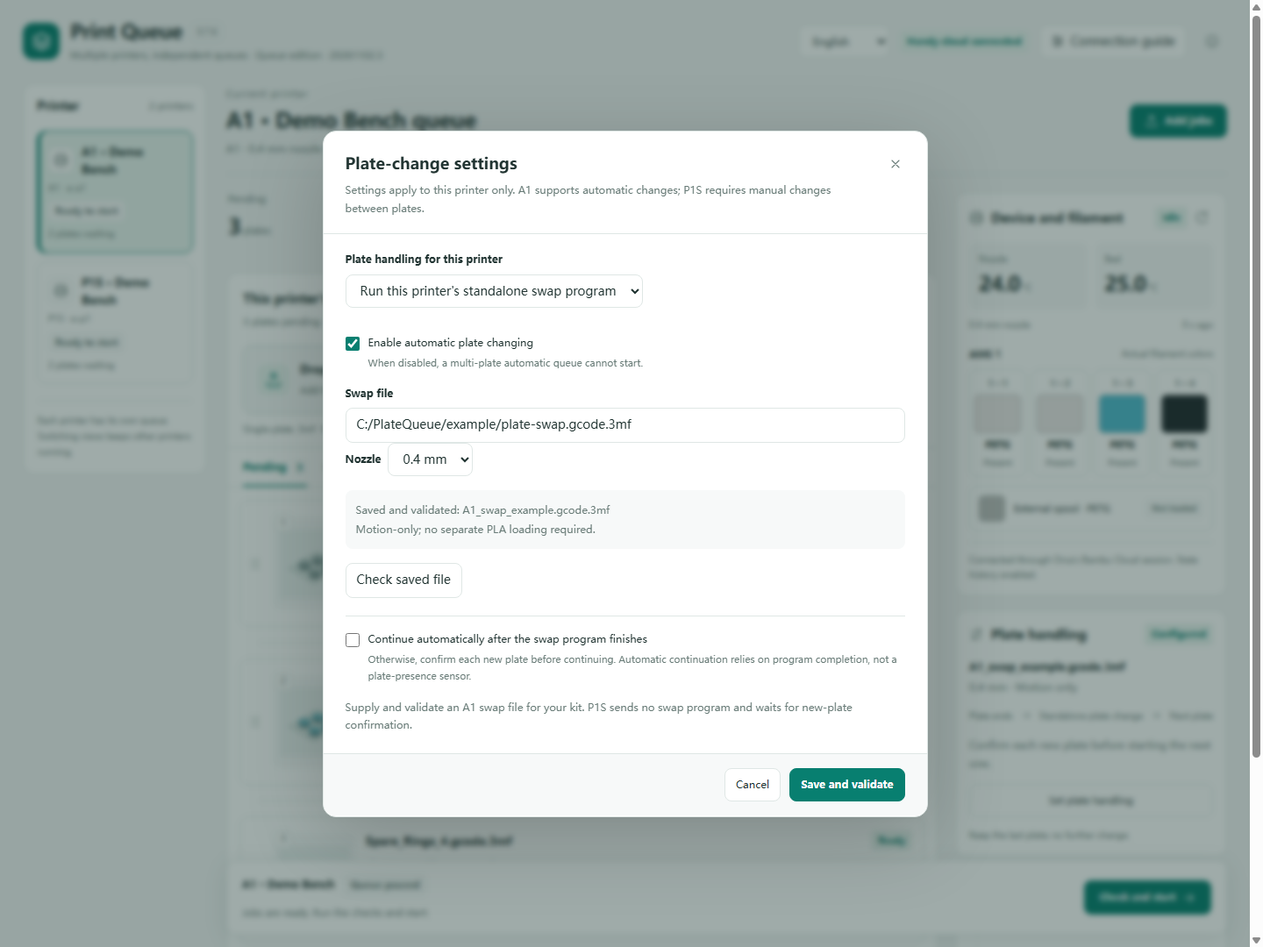
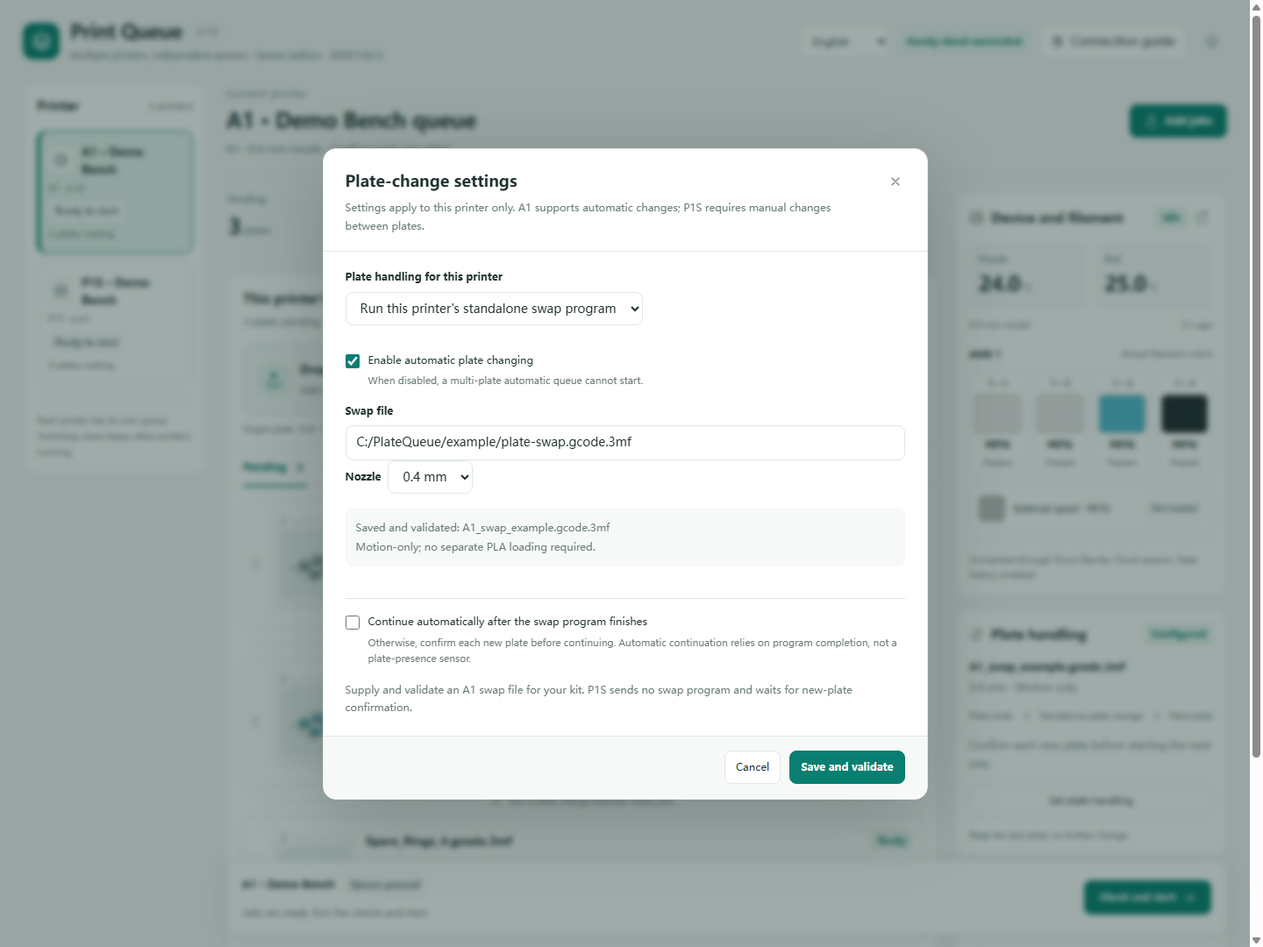
Keep feedback visible in dialogs and simplify swap validation

Changed region(s): [[0.25, 0.1222, 0.75, 0.5806], [0.2812, 0.6111, 0.7188, 0.7944], [0.25, 0.7944, 0.75, 0.8861]]

diff --git a/plugin_page.js b/plugin_page.js
@@ -1,5 +1,5 @@
 /* Local Orca page bridge. No credentials or HTTP file uploads in this page. */
-const PAGE_BUILD_ID='20261102.4';
+const PAGE_BUILD_ID='20261102.5';
 const I18n=window.QueueI18n,tr=(key,params)=>I18n.tr(key,params),message=value=>I18n.message(value);
 I18n.initialize(document);
 let latestReply=null,connection={available:false,devices:[]},setup={},swapSettings={},transitions=[];
@@ -39,7 +39,23 @@ function pendingJobs(data=latestReply?.data){return (data?.jobs||[]).filter(j=>j
 function boundDevice(data=latestReply?.data){return connection.devices.find(d=>d.id===data?.device_id&&MODEL_NAMES[d.model])}
 function deviceFaultText(d){const t=d?.telemetry||{},details=[],error=t.print_error,count=t.hms_count;if(error)details.push(tr('打印错误 ')+(Number.isInteger(error)&&error>=0?'0x'+error.toString(16).toUpperCase().padStart(8,'0'):String(error)));if(count)details.push(count+tr(' 条 HMS 设备告警'));return details.join(tr('；'))}
 function deviceReady(d){return !!d&&!!MODEL_NAMES[d.model]&&d.online&&d.cloud_connected&&d.age_ms<=15000&&d.nozzle!==null}
-function feedback(message,error=false){if(!message)return;lastFeedback={message:I18n.original(String(message)),error};clearTimeout(toastTimer);const box=$('feedback');box.replaceChildren(button('×','',()=>{box.hidden=true},tr('关闭提示')),document.createTextNode(I18n.message(message)));box.className='toast'+(error?' error':'');box.hidden=false;if(!error)toastTimer=setTimeout(()=>{box.hidden=true},6500)}
+const modalOrder=[];
+function placeFeedback(){
+  const box=$('feedback'),active=modalOrder.filter(dialog=>dialog.open).at(-1)||[...document.querySelectorAll('dialog[open]')].at(-1);
+  box.classList.toggle('dialog-feedback',!!active);
+  if(active)active.insertBefore(box,active.querySelector('.dialog-footer'));else document.body.append(box);
+  return active;
+}
+function showDialog(dialog){
+  $('feedback').hidden=true;
+  dialog.showModal();
+  const previous=modalOrder.indexOf(dialog);if(previous>=0)modalOrder.splice(previous,1);
+  modalOrder.push(dialog);placeFeedback();
+}
+for(const dialog of document.querySelectorAll('dialog'))dialog.addEventListener('close',()=>{
+  const index=modalOrder.indexOf(dialog);if(index>=0)modalOrder.splice(index,1);placeFeedback();
+});
+function feedback(message,error=false){if(!message)return;lastFeedback={message:I18n.original(String(message)),error};clearTimeout(toastTimer);const box=$('feedback');box.replaceChildren(button('×','',()=>{box.hidden=true},tr('关闭提示')),document.createTextNode(I18n.message(message)));box.className='toast'+(error?' error':'');box.hidden=false;if(placeFeedback())box.scrollIntoView({block:'nearest'});if(!error)toastTimer=setTimeout(()=>{box.hidden=true},6500)}
 function send(action,extra={}){
   if(!window.orca)return Promise.resolve({success:false,note:tr('请在 Orca 中使用此页面。')});
   const request_id=String(++requestSequence);
@@ -198,7 +214,7 @@ function renderRun(data){const a=data.active,d=boundDevice(data),t=d?.telemetry|
 function applyState(reply){if(!reply.data)return;acceptLanguage(reply);if(viewQueueId!==null&&reply.queue_id!==undefined&&reply.queue_id!==viewQueueId){for(const d of document.querySelectorAll('dialog[open]'))d.close();editing=null;selected=null;cardsKey='';draggingId=null;noticedImports.clear();startEpoch++}viewQueueId=reply.queue_id??reply.data.device_id;latestReply=reply;connection=reply.connection||{available:false,devices:[]};setup=reply.setup||{};swapSettings=reply.swap_settings||{};transitions=reply.swap_plan||[];renderConnection(reply.data);renderOverview(reply.data);renderSwap(reply.data);renderJobs(reply.data);renderRun(reply.data);renderFleet(reply);if(document.activeElement!==$('auto'))$('auto').checked=!!reply.data.auto_export;$('events').textContent=[...(reply.messages||[])].reverse().map(message).join('\n')||tr('暂无运行记录。');renderImports(reply.data);syncObjectsDialog(reply.data)}
 function renderImports(data){renderComponents(latestReply);const drafts=data.drafts||[];$('importPending').hidden=!drafts.length;$('importPendingText').textContent=drafts.length+tr(' 个文件待配置，确认后才会显示在队列。');const fresh=drafts.some(d=>!noticedImports.has(d.id));for(const d of drafts)noticedImports.add(d.id);if(fresh&&!busy&&!editing&&!document.querySelector('dialog[open]'))queueMicrotask(()=>openNextImport())}
 function openNextImport(){const draft=latestReply?.data.drafts?.[0];if(draft&&!editing)openSettings(draft.id)}
-function showPreview(src,name){$('previewTitle').textContent=name;$('previewImage').src=src;$('previewDialog').showModal()}
+function showPreview(src,name){$('previewTitle').textContent=name;$('previewImage').src=src;showDialog($('previewDialog'))}
 function refillIdentity(slot){const type=String(slot?.type||'').trim().toUpperCase(),color=String(slot?.color||'').replace(/^#/,'').toUpperCase();return type&&/^[0-9A-F]{6}([0-9A-F]{2})?$/.test(color)&&!(color.length===8&&color.endsWith('00'))?type+'|'+color+(color.length===6?'FF':''):''}
 function renderBackupChoices(f,device){const settings=editing.settings,group=settings.refill?.[f.id],primary=device?.slots.find(s=>s.id===settings.mapping[f.id]),identity=refillIdentity(group)||refillIdentity(primary),box=node('div','backup-choices');
   box.append(node('strong','',tr('跨盘续料备用槽（可选）')),node('small','',tr('主槽不可用时，按勾选顺序使用有料的同类型、同颜色槽。每盘发送前检查；不更改打印机内的自动续料设置。')));
@@ -241,15 +257,15 @@ function openSettings(id){if(busy)return;const data=latestReply?.data,device=bou
   renderSettingsHeading();
   $('materialSource').value=settings.source;$('externalReady').checked=!!settings.external_ready;$('applyMatching').checked=false;$('applyMatchingLabel').hidden=!targets.length;
   for(const [field,key] of [['bedLeveling','bed_leveling'],['flowCalibration','flow_calibration'],['timelapse','timelapse']]){const input=$(field);input.checked=!!settings.options[key];input.disabled=asset.motion_only||!device.supported_options.includes(key);if(input.disabled)input.checked=false}
-  $('settingsError').textContent='';renderMappings();$('settingsDialog').showModal();
+  $('settingsError').textContent='';renderMappings();showDialog($('settingsDialog'));
 }
 $('savePrintSettings').onclick=async()=>{if(!editing)return;const draft=editing,element=$('savePrintSettings'),copies=draft.importing?Number($('importCopies').value):null;if(draft.importing&&(!Number.isInteger(copies)||copies<1||copies>100)){$('settingsError').textContent=tr('加入份数须为 1–100 的整数。');$('importCopies').focus();return}element.disabled=true;draft.settings.external_ready=$('externalReady').checked;for(const [field,key] of [['bedLeveling','bed_leveling'],['flowCalibration','flow_calibration'],['timelapse','timelapse']])draft.settings.options[key]=$(field).checked;try{await checkedSend(draft.importing?'commit_import':'save_settings',{id:draft.id,settings:draft.settings,...(draft.importing?{copies}:{}),apply_to:$('applyMatching').checked?draft.targets:[]});if(editing===draft){$('settingsDialog').close();if(draft.importing)openNextImport()}}catch(e){$('settingsError').textContent=message(e.message)}finally{element.disabled=false}};
 $('cancelImport').onclick=async()=>{const draft=editing;if(!draft?.importing)return;const b=$('cancelImport');b.disabled=true;try{await checkedSend('discard_import',{id:draft.id});if(editing===draft){$('settingsDialog').close();openNextImport()}}catch(e){$('settingsError').textContent=message(e.message)}finally{b.disabled=false}};
 $('materialSource').onchange=()=>{if(editing){editing.settings.source=$('materialSource').value;editing.settings.mapping={};editing.settings.refill={};editing.settings.external_ready=false;$('externalReady').checked=false;renderMappings()}};
 $('settingsDialog').addEventListener('close',()=>{editing=null});
 function fillSwapDraft(){$('plateMode').value=latestReply?.data.plate_mode||'automatic';$('swapPath').value=swapSettings.source_path||swapSettings.path||'';$('swapNozzle').value=String(swapSettings.nozzle||.4);$('swapEnabled').checked=swapSettings.enabled!==false;$('swapAuto').checked=!!latestReply?.data.auto_after_swap;renderSwapDraftStatus()}
-function renderSwapDraftStatus(){const supported=SWAP_MODELS.has(boundDevice()?.model);$('plateMode').querySelector('option[value=automatic]').disabled=!supported;if(!supported)$('plateMode').value='manual';const manual=$('plateMode').value==='manual';$('swapFileFields').hidden=manual;$('swapEnabled').closest('label').hidden=manual;$('swapAuto').closest('label').hidden=manual;$('defaultSwap').disabled=boundDevice()?.model!=='N2S';$('swapStatus').textContent=swapSettings.validated?tr('已保存并校验：')+(swapSettings.name||basename(swapSettings.path))+(swapSettings.motion_only?tr('\n仅机械换盘，无需单独装 PLA。'):tr('\n换盘文件使用独立耗材设置。')):tr('请选择文件并保存校验。');$('swapPrintSettings').hidden=!!swapSettings.motion_only||!swapSettings.validated}
-function openSwap(){const data=latestReply?.data;if(data?.running||data?.active){feedback(tr('执行中不能更改换盘设置。'),true);return}swapDirty=false;fillSwapDraft();$('swapError').textContent='';$('swapDialog').showModal()}
+function renderSwapDraftStatus(){const supported=SWAP_MODELS.has(boundDevice()?.model);$('plateMode').querySelector('option[value=automatic]').disabled=!supported;if(!supported)$('plateMode').value='manual';const manual=$('plateMode').value==='manual';$('swapFileFields').hidden=manual;$('swapEnabled').closest('label').hidden=manual;$('swapAuto').closest('label').hidden=manual;$('defaultSwap').disabled=boundDevice()?.model!=='N2S';$('swapStatus').textContent=swapSettings.validated?tr('已保存并校验：')+(swapSettings.name||basename(swapSettings.path))+(swapSettings.motion_only?tr('\n仅机械换盘，无需单独装 PLA。'):tr('\n换盘文件使用独立耗材设置。')):tr('请选择文件并保存校验。');if(swapDirty)$('swapStatus').textContent=tr('当前修改尚未保存，保存时将重新校验。')+'\n'+$('swapStatus').textContent;$('swapPrintSettings').hidden=!!swapSettings.motion_only||!swapSettings.validated}
+function openSwap(){const data=latestReply?.data;if(data?.running||data?.active){feedback(tr('执行中不能更改换盘设置。'),true);return}swapDirty=false;fillSwapDraft();$('swapError').textContent='';showDialog($('swapDialog'))}
 async function saveSwap(useDefault=false){const b=useDefault?$('defaultSwap'):$('saveSwap');b.disabled=true;$('swapError').textContent='';try{await checkedSend(useDefault?'default_swap':'save_swap',{plate_mode:useDefault?'automatic':$('plateMode').value,path:$('swapPath').value,nozzle:Number($('swapNozzle').value),enabled:$('swapEnabled').checked,automatic:$('swapAuto').checked});swapDirty=false;fillSwapDraft();if(!useDefault)$('swapDialog').close()}catch(e){$('swapError').textContent=message(e.message)}finally{b.disabled=false}}
 function startChecks(data){
   const r=readiness(data,startOperation==='swap_first'),d=boundDevice(data),fresh=deviceReady(d),state=d?.telemetry?.gcode_state,stateFresh=(d?.state_age_ms??d?.age_ms??Infinity)<=15000,idle=fresh&&stateFresh&&READY_STATES.has(state),fault=deviceFaultText(d);
@@ -262,11 +278,11 @@ function renderStartChecklist(extra=''){const body=$('startChecklist');body.repl
 function updateStartButton(){const ack=startOperation==='reconcile'?$('checkedPending').checked:startOperation==='swap_first'?$('swapReady').checked:$('bedClear').checked;$('confirmStart').disabled=startChecking||!ack||(startOperation!=='reconcile'&&!startPassed)}
 async function checkStart(){if(startOperation==='reconcile'){startPassed=true;renderStartChecklist();updateStartButton();return}const epoch=++startEpoch;startChecking=true;startPassed=false;updateStartButton();$('startError').textContent='';renderStartChecklist(tr('正在核对文件、设备和耗材…'));try{await checkedSend('preflight',{for_start:true,swap_first:startOperation==='swap_first'});if(epoch!==startEpoch||!$('startDialog').open)return;startPassed=true;renderStartChecklist(tr('文件、设备与逐盘设置检查通过。'))}catch(e){if(epoch!==startEpoch||!$('startDialog').open)return;$('startError').textContent=message(e.message);renderStartChecklist()}finally{if(epoch===startEpoch){startChecking=false;updateStartButton()}}}
 function renderStartPresentation(){const reconcile=startOperation==='reconcile',swapFirst=startOperation==='swap_first',jobs=pendingJobs();$('startDescription').dataset.deviceId=latestReply?.data.device_id||'';$('startTitle').textContent=reconcile?tr('确认当前任务已结束'):swapFirst?tr('换盘后继续队列'):tr('开始前检查');$('startDescription').textContent=(boundDevice()?.name||tr('当前机器'))+' · '+(reconcile?tr('请先核对打印机和 Handy，防止已有任务稍后启动。'):swapFirst?tr('先运行独立换盘文件，再开始下一盘。'):tr('检查通过并确认打印板就绪后，才会发送打印。'));$('bedClearGroup').hidden=swapFirst;$('bedClearGroup').querySelector('span').textContent=reconcile?tr('当前已装好空白打印板（未勾选则保留待换盘状态）'):latestReply?.data.plate_mode==='manual'?tr('已安装空白打印板，打印区域已清空'):tr('已安装空白打印板，换盘机构及备板已就绪');$('swapReadyGroup').hidden=!swapFirst;$('checkedPendingGroup').hidden=!reconcile;$('recheckStart').hidden=reconcile;$('confirmStart').textContent=reconcile?tr('记录已结束'):swapFirst?tr('确认换盘并继续'):tr('确认并开始');const summary=$('startSummary');summary.replaceChildren();if(!reconcile){const a=node('div'),b=node('div');a.append(node('strong','',jobs.length+tr(' 盘任务')),node('small','',boundDevice()?.name||tr('打印机未绑定')));b.append(node('strong','',duration(jobs.reduce((s,j)=>s+(j.duration_s||0),0))),node('small','',tr('切片预计用时，不含调平与换盘')));summary.append(a,b)}summary.hidden=reconcile;}
-function openStart(operation){if(busy)return;startOperation=operation;startPassed=false;startChecking=false;$('bedClear').checked=false;$('swapReady').checked=false;$('checkedPending').checked=false;$('startError').textContent='';const reconcile=operation==='reconcile',swapFirst=operation==='swap_first',jobs=pendingJobs();renderStartPresentation();$('startDialog').showModal();checkStart()}
+function openStart(operation){if(busy)return;startOperation=operation;startPassed=false;startChecking=false;$('bedClear').checked=false;$('swapReady').checked=false;$('checkedPending').checked=false;$('startError').textContent='';const reconcile=operation==='reconcile',swapFirst=operation==='swap_first',jobs=pendingJobs();renderStartPresentation();showDialog($('startDialog'));checkStart()}
 $('startDialog').addEventListener('close',()=>{startEpoch++;startChecking=false});
 $('confirmStart').onclick=async()=>{const b=$('confirmStart');if(b.disabled)return;b.disabled=true;const epoch=++startEpoch;try{await checkedSend(startOperation==='reconcile'?'reconcile':'start',{bed_clear:$('bedClear').checked,swap_first:startOperation==='swap_first',checked_pending:$('checkedPending').checked});if(epoch===startEpoch)$('startDialog').close()}catch(e){$('startError').textContent=message(e.message);startPassed=false}finally{updateStartButton()}};
 function renderControlPresentation(){const action=actionIntent;const continuing=action==='end_current',name=boundDevice()?.name||tr('当前机器'),manual=latestReply?.data.plate_mode==='manual';$('actionTitle').textContent=name+' · '+(continuing?tr('结束本盘，继续队列'):tr('停止本机打印并暂停队列'));$('actionDescription').textContent=continuing?tr('将结束 ')+name+tr(' 的当前盘。')+(pendingJobs().length?(manual?tr('随后等待手动换板，确认后继续下一盘。'):tr('随后按本机换盘设置继续下一盘。')):tr('没有后续任务，保留最后一盘。'))+tr('其他打印机继续各自运行。'):tr('将停止 ')+name+tr(' 的当前打印，并暂停本机后续队列。其他打印机继续各自运行。');$('confirmAction').textContent=continuing?tr('结束本盘并继续'):tr('停止并暂停队列');}
-function confirmControl(action){actionIntent=action;$('actionError').textContent='';renderControlPresentation();$('actionDialog').showModal()}
+function confirmControl(action){actionIntent=action;$('actionError').textContent='';renderControlPresentation();showDialog($('actionDialog'))}
 function syncCompletedReview(){
   const ctx=completionAttempt;if(!ctx)return;const a=latestReply?.data.active,d=boundDevice(),t=d?.telemetry||{};
   const current=a?.request_id===ctx.request_id&&viewQueueId===ctx.queue_id;
@@ -291,7 +307,7 @@ function openCompletedReview(){
   const data=latestReply?.data,a=data?.active;if(!a||busy)return;
   completionAttempt={request_id:a.request_id,queue_id:viewQueueId,tag:a.tag,passed:false,checking:false,working:false};
   renderCompletedPresentation();
-  $('completeConfirmed').checked=false;$('completeError').textContent='';$('completeDialog').showModal();checkCompletedReview();
+  $('completeConfirmed').checked=false;$('completeError').textContent='';showDialog($('completeDialog'));checkCompletedReview();
 }
 $('completeDialog').addEventListener('close',()=>{completionAttempt=null});
 $('closeComplete').onclick=()=>$('completeDialog').close();$('recheckComplete').onclick=checkCompletedReview;$('completeConfirmed').onchange=syncCompletedReview;
@@ -342,7 +358,7 @@ function syncObjectsDialog(data){
 async function openObjects(jobId=null,readOnly=false){
   const data=latestReply?.data,job=data?.jobs.find(j=>j.id===(jobId||data.active?.job_id));if(!job)return;if(!readOnly&&job.object_count===1)return confirmControl('end_current');
   const ctx={serial:++objectsSerial,queueId:viewQueueId,attempt:objectAttempt(data),job,ids:new Set(job.objects.map(o=>String(o.id))),done:new Set(),pending:new Set(),selected:new Set(),readOnly,submitting:false,hover:null};objectsState=ctx;
-  $('objectsTitle').textContent=readOnly?tr('本盘零件预览'):tr('跳过本盘零件');$('objectsDescription').textContent=(boundDevice()?.name||tr('当前机器'))+' · '+job.name;$('objectsError').textContent='';$('objectsPreviewNote').textContent=tr('正在读取本盘俯视图与零件位置…');$('objectsPreview').replaceChildren(node('div','object-preview-empty',tr('正在读取零件预览…')));$('objectsFit').disabled=true;renderObjectRows();$('objectsDialog').showModal();syncObjectsDialog(data);
+  $('objectsTitle').textContent=readOnly?tr('本盘零件预览'):tr('跳过本盘零件');$('objectsDescription').textContent=(boundDevice()?.name||tr('当前机器'))+' · '+job.name;$('objectsError').textContent='';$('objectsPreviewNote').textContent=tr('正在读取本盘俯视图与零件位置…');$('objectsPreview').replaceChildren(node('div','object-preview-empty',tr('正在读取零件预览…')));$('objectsFit').disabled=true;renderObjectRows();showDialog($('objectsDialog'));syncObjectsDialog(data);
   try{const reply=await checkedSend('object_preview',{id:job.id});if(objectsState!==ctx||!$('objectsDialog').open)return;if(reply.job_id!==job.id||reply.queue_id!==ctx.queueId)throw Error(tr('零件预览归属不匹配。'));renderObjectPreview(reply.preview||{})}catch(e){if(objectsState!==ctx)return;$('objectsPreview').replaceChildren(node('div','object-preview-empty',tr('预览暂不可用，可使用下方列表。')));$('objectsPreviewNote').textContent=message(e.message)}
 }
 $('objectsSelectAll').onchange=()=>{const ctx=objectsState;if(!ctx)return;for(const o of ctx.job.objects){const id=String(o.id);if(!ctx.done.has(id)&&!ctx.pending.has(id)){if($('objectsSelectAll').checked)ctx.selected.add(id);else ctx.selected.delete(id)}}syncObjectUI()};
@@ -396,14 +412,13 @@ document.addEventListener('drop',e=>{if(!isFileDrag(e))return;e.preventDefault()
 document.addEventListener('dragend',()=>{zone.classList.remove('drag-over');pointerDragging=false});
 document.addEventListener('click',e=>{if(!e.target.closest('#importOptions'))$('importOptions').open=false});
 $('quickAdd').onclick=()=>guide('jobs');
-$('openConnection').onclick=()=>{renderComponents(latestReply);$('connectionDialog').showModal()};
+$('openConnection').onclick=()=>{renderComponents(latestReply);showDialog($('connectionDialog'))};
 $('closeConnection').onclick=()=>$('connectionDialog').close();
 $('connectionDownloadUrl').onclick=()=>$('connectionDownloadUrl').select();
 for(const [id,dialog] of [['closeSettings','settingsDialog'],['closeSwap','swapDialog'],['cancelSwap','swapDialog'],['closeStart','startDialog'],['closeObjects','objectsDialog'],['closeAction','actionDialog'],['cancelAction','actionDialog'],['closePreview','previewDialog'],['closeHelp','helpDialog']])$(id).onclick=()=>$(dialog).close();
 $('pendingTab').onclick=()=>{queueFilter='pending';renderJobs(latestReply?.data||{jobs:[]})};$('historyTab').onclick=()=>{queueFilter='history';renderJobs(latestReply?.data||{jobs:[]})};
 $('configureImports').onclick=openNextImport;
-$('openHelp').onclick=()=>$('helpDialog').showModal();$('openSwap').onclick=openSwap;$('saveSwap').onclick=()=>saveSwap();$('defaultSwap').onclick=()=>saveSwap(true);
-$('checkSwap').onclick=async()=>{try{await checkedSend('check_swap');$('swapStatus').textContent=tr('已保存的换盘文件校验通过。')+(swapDirty?tr(' 当前修改尚未保存。'):'')}catch(e){$('swapError').textContent=message(e.message)}};
+$('openHelp').onclick=()=>showDialog($('helpDialog'));$('openSwap').onclick=openSwap;$('saveSwap').onclick=()=>saveSwap();$('defaultSwap').onclick=()=>saveSwap(true);
 $('swapPrintSettings').onclick=()=>openSettings('__swap__');for(const id of ['swapPath','swapNozzle','swapEnabled','swapAuto','plateMode'])$(id).oninput=()=>{swapDirty=true;renderSwapDraftStatus()};
 $('add').onclick=async()=>{if(!boundDevice())return focusDevice();if(!busy)await perform('add',{path:$('path').value,copies:1},$('add'))};
 $('retryInitialize').onclick=()=>perform('retry_initialize',{},$('retryInitialize'));

diff --git a/plugin_page.html b/plugin_page.html
@@ -19,7 +19,7 @@
 </defs></svg>
 <main class="workspace">
 <header class="page-header">
-  <div class="brand"><span class="brand-mark"><svg class="icon"><use href="#i-stack"/></svg></span><div><h1>打印队列 <span class="version">0.7.7</span></h1><p>多台设备，各自按序打印 · <span id="buildLabel">精简队列版 · 20261102.4</span></p></div></div>
+  <div class="brand"><span class="brand-mark"><svg class="icon"><use href="#i-stack"/></svg></span><div><h1>打印队列 <span class="version">0.7.8</span></h1><p>多台设备，各自按序打印 · <span id="buildLabel">精简队列版 · 20261102.5</span></p></div></div>
   <div class="header-actions"><select id="languageSelect" class="language-select" aria-label="界面语言" title="界面语言"><option value="zh-CN" data-i18n-ignore>简体中文</option><option value="en" data-i18n-ignore>English</option></select><span id="cloudBadge" class="status-pill muted">等待连接</span><button id="openConnection"><svg class="icon"><use href="#i-settings"/></svg>连接说明</button><button id="openHelp" class="icon-button" title="帮助与运行记录" aria-label="帮助与运行记录"><svg class="icon"><use href="#i-info"/></svg></button></div>
 </header>
 <section id="initializationNotice" class="notice" role="alert" hidden><p>队列尚未初始化。如果刚允许了 Orca 的文件权限，请点击重新初始化。</p><button id="retryInitialize">重新初始化</button></section>
@@ -66,7 +66,7 @@
 <dialog id="connectionDialog" class="settings-dialog" aria-labelledby="connectionTitle">
 <header class="dialog-header"><div><h2 id="connectionTitle">连接说明</h2><p>独立安装连接组件 · 保留 Bambu Handy</p></div><button id="closeConnection" class="icon-button" aria-label="关闭连接说明"><svg class="icon"><use href="#i-close"/></svg></button></header>
 <div class="dialog-body"><p id="componentSummary" class="inline-note" role="status"></p><div id="componentSeries" class="component-series"></div><ol class="connection-steps"><li>在 Orca 中启用打印机联网功能。</li><li>首次使用时，保存工程并退出 Orca，解压独立连接组件包，打开独立安装器并点“安装 / 更新”。</li><li>重新打开 Orca，在首页登录 Bambu Cloud，再选择打印机并核对 AMS。</li></ol><p class="quiet-note">已有 Open Bamboo 可以保留。普通 Open Bamboo 尚不包含队列桥接，首次仍需独立安装器；已安装匹配桥接的用户无需重复安装。安装器支持备份和恢复，不修改队列或账号。</p><p id="componentNote" class="small"></p><div class="connection-downloads"><a id="downloadConnection" class="download-link primary" href="https://github.com/ChenLei0504/orca-plate-queue/releases/download/v0.7.3/Orca-Queue-Connection-0.7.3-Windows-x64.zip" target="_blank" rel="noopener noreferrer">下载 Windows 连接组件 · 0.7.3</a><a id="connectionRelease" class="download-link" href="https://github.com/ChenLei0504/orca-plate-queue/releases/tag/v0.7.3" target="_blank" rel="noopener noreferrer">查看发布页与源码</a></div><label class="small" for="connectionDownloadUrl">如果无法打开，复制链接到浏览器：</label><input id="connectionDownloadUrl" class="download-url" type="text" readonly value="https://github.com/ChenLei0504/orca-plate-queue/releases/download/v0.7.3/Orca-Queue-Connection-0.7.3-Windows-x64.zip" aria-label="连接组件公开下载链接"><details class="connection-checksum"><summary>查看 SHA256 校验值</summary><code>2ada419c29fff877ea86c78cb2e59597e5fc429742d30b9e52770ca467522200</code></details><p class="small">仅打开公开下载链接，不会自动安装。保存工程并退出 Orca 后，再手动运行独立安装器。</p></div></dialog>
-<dialog id="swapDialog" class="settings-dialog" aria-labelledby="swapTitle"><header class="dialog-header"><div><h2 id="swapTitle">换盘设置</h2><p>当前打印机单独设置。A1 可自动换盘，P1S 每盘结束后手动换板。</p></div><button id="closeSwap" class="icon-button" aria-label="关闭换盘设置"><svg class="icon"><use href="#i-close"/></svg></button></header><div class="dialog-body"><label class="field-label" for="plateMode">本机打印板处理方式</label><select id="plateMode"><option value="manual">手动换板，每盘结束后确认</option><option value="automatic">自动运行本机独立换盘程序</option></select><label class="check-line"><input id="swapEnabled" type="checkbox" checked><span>启用自动换盘<small>关闭后，连续多盘队列不能开始。</small></span></label><div id="swapFileFields"><label class="field-label" for="swapPath">换盘文件</label><input id="swapPath" type="text" class="full-width" placeholder="套件独立换盘 .3mf 的完整路径" aria-label="本机换盘文件路径"><div class="row"><label class="field-label" for="swapNozzle">喷嘴</label><select id="swapNozzle"><option value="0.2">0.2 mm</option><option value="0.4">0.4 mm</option><option value="0.6">0.6 mm</option><option value="0.8">0.8 mm</option></select><button id="defaultSwap" class="text-button">使用套件默认文件</button></div><div id="swapStatus" class="inline-note" role="status"></div><div class="row"><button id="checkSwap">检查已保存的文件</button><button id="swapPrintSettings">换盘耗材设置</button></div></div><div class="option-divider"></div><label class="check-line"><input id="swapAuto" type="checkbox"><span>换盘程序完成后自动继续<small>关闭时，每次确认新板就位后再开始下一盘。自动继续依据程序完成回报，没有到位传感器保证。</small></span></label><p class="quiet-note">A1 的独立换盘文件由你按实际套件提供并校验；P1S 不发送换盘程序，确认新板就位后继续本机队列。</p><div id="swapError" class="field-error" role="status"></div></div><footer class="dialog-footer"><button id="cancelSwap">取消</button><button id="saveSwap" class="primary">保存并校验</button></footer></dialog>
+<dialog id="swapDialog" class="settings-dialog" aria-labelledby="swapTitle"><header class="dialog-header"><div><h2 id="swapTitle">换盘设置</h2><p>当前打印机单独设置。A1 可自动换盘，P1S 每盘结束后手动换板。</p></div><button id="closeSwap" class="icon-button" aria-label="关闭换盘设置"><svg class="icon"><use href="#i-close"/></svg></button></header><div class="dialog-body"><label class="field-label" for="plateMode">本机打印板处理方式</label><select id="plateMode"><option value="manual">手动换板，每盘结束后确认</option><option value="automatic">自动运行本机独立换盘程序</option></select><label class="check-line"><input id="swapEnabled" type="checkbox" checked><span>启用自动换盘<small>关闭后，连续多盘队列不能开始。</small></span></label><div id="swapFileFields"><label class="field-label" for="swapPath">换盘文件</label><input id="swapPath" type="text" class="full-width" placeholder="套件独立换盘 .3mf 的完整路径" aria-label="本机换盘文件路径"><div class="row"><label class="field-label" for="swapNozzle">喷嘴</label><select id="swapNozzle"><option value="0.2">0.2 mm</option><option value="0.4">0.4 mm</option><option value="0.6">0.6 mm</option><option value="0.8">0.8 mm</option></select><button id="defaultSwap" class="text-button">使用套件默认文件</button></div><div id="swapStatus" class="inline-note" role="status"></div><div class="row"><button id="swapPrintSettings">换盘耗材设置</button></div></div><div class="option-divider"></div><label class="check-line"><input id="swapAuto" type="checkbox"><span>换盘程序完成后自动继续<small>关闭时，每次确认新板就位后再开始下一盘。自动继续依据程序完成回报，没有到位传感器保证。</small></span></label><p class="quiet-note">A1 的独立换盘文件由你按实际套件提供并校验；P1S 不发送换盘程序，确认新板就位后继续本机队列。</p><div id="swapError" class="field-error" role="status"></div></div><footer class="dialog-footer"><button id="cancelSwap">取消</button><button id="saveSwap" class="primary">保存并校验</button></footer></dialog>
 <dialog id="settingsDialog" class="settings-dialog" aria-labelledby="settingsTitle"><header class="dialog-header"><div><h2 id="settingsTitle">打印设置</h2><p id="settingsDevice"></p></div><button id="closeSettings" class="icon-button" aria-label="关闭打印设置"><svg class="icon"><use href="#i-close"/></svg></button></header><div class="dialog-body"><div id="settingsAsset" class="asset-heading"></div><div id="materialSourceGroup"><label class="field-label" for="materialSource">供料方式</label><select id="materialSource"><option value="ams">AMS / AMS Lite</option><option value="external">外挂耗材</option></select></div><p id="materialHint" class="small"></p><div id="materialMappings" class="material-mappings"></div><label id="externalReadyLabel" class="check-line" hidden><input id="externalReady" type="checkbox"><span>已人工确认外挂耗材装好并送入喷头<small>仅用于设备未回报在位状态的情况，不能覆盖明确的无料回报。</small></span></label><div class="option-divider"></div><div id="printOptions"><h3>本盘打印选项</h3><div class="options"><label><input id="bedLeveling" type="checkbox">热床调平</label><label><input id="flowCalibration" type="checkbox">流量校准</label><label><input id="timelapse" type="checkbox">延时摄影</label></div></div><label id="applyMatchingLabel" class="check-line apply-matching" hidden><input id="applyMatching" type="checkbox"><span id="applyMatchingText">同时应用到相同耗材的等待任务</span></label><div id="settingsError" class="field-error" role="status"></div></div><footer class="dialog-footer"><span class="small">先保存配置，开始前再检查装料。</span><button id="cancelImport" hidden>取消导入</button><button id="savePrintSettings" class="primary">保存设置</button></footer></dialog>
 <dialog id="startDialog" class="settings-dialog" aria-labelledby="startTitle"><header class="dialog-header"><div><h2 id="startTitle">开始队列</h2><p id="startDescription"></p></div><button id="closeStart" class="icon-button" aria-label="关闭开始检查"><svg class="icon"><use href="#i-close"/></svg></button></header><div class="dialog-body"><div id="startSummary" class="start-summary"></div><div id="startChecklist" class="start-checklist"></div><div id="bedClearGroup"><label class="check-line"><input id="bedClear" type="checkbox"><span>已安装空白打印板，换盘机构及备板已就绪</span></label></div><div id="swapReadyGroup" hidden><label class="check-line"><input id="swapReady" type="checkbox"><span>已确认换盘机构及备板就绪</span></label></div><div id="checkedPendingGroup" hidden><label class="check-line"><input id="checkedPending" type="checkbox"><span>已确认打印机和 Handy 均无运行中或待启动任务</span></label></div><div id="startError" class="field-error" role="status"></div></div><footer class="dialog-footer"><button id="recheckStart">重新检查</button><button id="confirmStart" class="primary" disabled>确认并开始</button></footer></dialog>
 <dialog id="objectsDialog" class="settings-dialog objects-dialog" aria-labelledby="objectsTitle">
@@ -81,5 +81,5 @@
 </dialog>
 <dialog id="actionDialog" class="settings-dialog compact-dialog" aria-labelledby="actionTitle"><header class="dialog-header"><h2 id="actionTitle">结束当前盘</h2><button id="closeAction" class="icon-button" aria-label="关闭操作确认"><svg class="icon"><use href="#i-close"/></svg></button></header><div class="dialog-body"><p id="actionDescription"></p><div id="actionError" class="field-error" role="status"></div></div><footer class="dialog-footer"><button id="cancelAction">取消</button><button id="confirmAction" class="danger-solid">确认操作</button></footer></dialog>
 <dialog id="previewDialog" class="preview-dialog" aria-labelledby="previewTitle"><header class="dialog-header"><h2 id="previewTitle">模型预览</h2><button id="closePreview" class="icon-button" aria-label="关闭模型预览"><svg class="icon"><use href="#i-close"/></svg></button></header><img id="previewImage" alt="本盘模型放大预览"><p class="quiet-note">预览来自该盘切片文件，清晰度取决于原图。</p></dialog>
-<dialog id="helpDialog" class="settings-dialog" aria-labelledby="helpTitle"><header class="dialog-header"><div><h2 id="helpTitle">帮助与运行记录</h2><p>Orca Plate Queue · 0.7.7</p></div><button id="closeHelp" class="icon-button" aria-label="关闭帮助"><svg class="icon"><use href="#i-close"/></svg></button></header><div class="dialog-body"><h3>更新状态</h3><div class="inline-note"><p>页面构建：精简队列版 · 20261102.4</p><p id="buildService" role="status">队列服务：等待检测</p><p id="buildHistory" role="status">连接组件：等待打印机状态</p><p id="buildMaterials" role="status">耗材映射：等待连接检测</p></div><h3>队列怎样继续</h3><p>每个任务独立发送原始单盘 3MF。A1 按本机设置运行换盘文件或等待手动换板；P1S 每盘结束后等待手动换板确认。最后一盘保留。Handy 或屏幕主动停止会暂停对应机器的队列，其他机器继续运行。</p><h3>中断后怎么办</h3><p>断线、报错或任务身份不符时暂停后续调度。请先核对 Handy，再恢复监控；不自动重发结果不明的任务。关闭此页仍会运行队列，需保持 Orca 程序打开。</p><h3>文件与零件跳过</h3><p>多零件需要切片时生成原生对象标签。只有一个零件时，用“结束本盘”。原生打印下拉菜单尚未扩展，请在本页加入导出的单盘文件。</p><h3>实机验证</h3><p>首次连续打印请看守验证。换盘程序成功不代表新板必然就位，默认需要逐次确认。</p><div class="option-divider"></div><h3>最近记录</h3><div id="events" class="event-list">暂无记录。</div></div><footer class="dialog-footer"><button id="exportReport">保存运行记录</button></footer></dialog>
+<dialog id="helpDialog" class="settings-dialog" aria-labelledby="helpTitle"><header class="dialog-header"><div><h2 id="helpTitle">帮助与运行记录</h2><p>Orca Plate Queue · 0.7.8</p></div><button id="closeHelp" class="icon-button" aria-label="关闭帮助"><svg class="icon"><use href="#i-close"/></svg></button></header><div class="dialog-body"><h3>更新状态</h3><div class="inline-note"><p>页面构建：精简队列版 · 20261102.5</p><p id="buildService" role="status">队列服务：等待检测</p><p id="buildHistory" role="status">连接组件：等待打印机状态</p><p id="buildMaterials" role="status">耗材映射：等待连接检测</p></div><h3>队列怎样继续</h3><p>每个任务独立发送原始单盘 3MF。A1 按本机设置运行换盘文件或等待手动换板；P1S 每盘结束后等待手动换板确认。最后一盘保留。Handy 或屏幕主动停止会暂停对应机器的队列，其他机器继续运行。</p><h3>中断后怎么办</h3><p>断线、报错或任务身份不符时暂停后续调度。请先核对 Handy，再恢复监控；不自动重发结果不明的任务。关闭此页仍会运行队列，需保持 Orca 程序打开。</p><h3>文件与零件跳过</h3><p>多零件需要切片时生成原生对象标签。只有一个零件时，用“结束本盘”。原生打印下拉菜单尚未扩展，请在本页加入导出的单盘文件。</p><h3>实机验证</h3><p>首次连续打印请看守验证。换盘程序成功不代表新板必然就位，默认需要逐次确认。</p><div class="option-divider"></div><h3>最近记录</h3><div id="events" class="event-list">暂无记录。</div></div><footer class="dialog-footer"><button id="exportReport">保存运行记录</button></footer></dialog>
 <script src="page_messages.js"></script><script src="page_i18n.js"></script><script src="plugin_page.js"></script></body></html>

diff --git a/page_messages.js b/page_messages.js
@@ -1,6 +1,7 @@
 /* Application-authored messages only; user file and device names are never translated. */
 window.QueueMessages=Object.freeze({
   "en": {
+    "当前修改尚未保存，保存时将重新校验。": "Changes are not saved yet. Saving will validate the updated settings.",
     "重新初始化": "Retry initialization",
     "队列尚未初始化。如果刚允许了 Orca 的文件权限，请点击重新初始化。": "The queue has not initialized. If you just allowed file access in Orca, click Retry initialization.",
     "已复用 Orca 当前连接组件与 Bambu Cloud 登录会话。": "Reusing Orca's loaded connection component and Bambu Cloud session.",

diff --git a/plugin_page.css b/plugin_page.css
@@ -37,3 +37,5 @@ body button:hover:not(:disabled){background:var(--pq-soft);border-color:var(--pq
 .language-select{max-width:130px;min-width:104px;font-size:12px;flex-shrink:0}html[lang="en"] .header-actions{flex-wrap:wrap}html[lang="en"] .queue-context{gap:12px}html[lang="en"] .row{flex-wrap:wrap}@media(max-width:700px){.page-header{flex-wrap:wrap}.header-actions{margin-left:auto;gap:6px}.language-select{min-width:98px}html[lang="en"] .queue-context{flex-wrap:wrap}}
 
 html[lang="en"] .stats strong small{margin-left:.25em}
+
+.toast.dialog-feedback{position:static;max-width:none;margin:0 25px 16px;box-shadow:none;overflow-wrap:anywhere}

diff --git a/release_info.py b/release_info.py
@@ -1,5 +1,5 @@
-QUEUE_VERSION = '0.7.7'
-QUEUE_BUILD_ID = '20261102.4'
+QUEUE_VERSION = '0.7.8'
+QUEUE_BUILD_ID = '20261102.5'
 CONNECTION_VERSION = '0.7.3'
 CONNECTION_DOWNLOAD_URL = 'https://github.com/ChenLei0504/orca-plate-queue/releases/download/v0.7.3/Orca-Queue-Connection-0.7.3-Windows-x64.zip'
[1 lines of base64/hex data omitted]

diff --git a/README.md b/README.md
@@ -14,7 +14,7 @@ An OrcaSlicer plugin for A1 / P1S queues, per-plate filament mapping, object ski
 
 | Component / 组件 | Current source version / 当前源码版本 |
 | --- | --- |
-| Queue plugin / 队列插件 | **0.7.7** · build **20261102.4** |
+| Queue plugin / 队列插件 | **0.7.8** · build **20261102.5** |
 | Connection component / 独立连接组件 | **0.7.3** |
 | Platform / 平台 | Windows x64 · OrcaSlicer **2.5.0 beta** |
 
@@ -169,7 +169,7 @@ flowchart LR
 
 ### 更新与常见问题
 
-更新到 0.7.7 后，应看到版本 **0.7.7**、构建 **20261102.4**。ⓘ → 更新状态中可查看页面、队列服务、状态历史和 AMS 映射状态。更新插件后完整退出并重新打开 Orca，避免旧代码仍驻留内存。
+更新到 0.7.8 后，应看到版本 **0.7.8**、构建 **20261102.5**。ⓘ → 更新状态中可查看页面、队列服务、状态历史和 AMS 映射状态。更新插件后完整退出并重新打开 Orca，避免旧代码仍驻留内存。
 
 | 现象 | 检查方式 |
 | --- | --- |
@@ -179,8 +179,8 @@ flowchart LR
 | 选择 AMS 却提示手动进料 | 核对本盘供料方式、实际槽位和“完整 AMS 映射已启用”状态；出现异常先暂停检查，不把提示视为正常。 |
 | 文件准备好了但不能开始 | 打开开始前检查，查看设备状态、HMS / 打印错误、喷嘴、耗材映射与换板配置。 |
 | 打印完成却等待核对 | 核对 Handy / 屏幕中的实际任务和状态，再按恢复区域提示处理；不要重复发送原任务。 |
-| 允许文件权限后仍提示队列初始化失败 | 更新到 0.7.7。若仍出现权限提示，允许后点击页面“重新初始化”；无需删除队列数据。 |
-| 添加换盘文件时 `.part` 报 Errno 2，存储路径很长 | 更新到 0.7.7 / 20261102.4。此构建修复未启用长路径感知的宿主中的缓存创建、校验和数据库访问。 |
+| 允许文件权限后仍提示队列初始化失败 | 更新到 0.7.8。若仍出现权限提示，允许后点击页面“重新初始化”；无需删除队列数据。 |
+| 添加换盘文件时 `.part` 报 Errno 2，存储路径很长 | 更新到 0.7.8 / 20261102.5。此构建修复未启用长路径感知的宿主中的缓存创建、校验和数据库访问。 |
 | 路径编码错误 `-7` | 上游 SDK 无法用系统代码页表示当前缓存路径；检查数据目录字符和系统区域环境。 |
 | 更新后看不到原队列 | 本地插件与云订阅可能使用不同私有目录；本版不自动合并，避免同时激活两套队列。 |
 
@@ -190,7 +190,7 @@ flowchart LR
 
 队列 wheel 不包含 DLL、安装器或命令执行代码，不读取账号文件、不另建登录实例。它仍调用 Orca 已加载的原生桥接，因此市场的原生代码能力提示仍有实际依据。独立安装器的文件修改、备份与恢复范围见其说明。
 
-0.7.7 已在 Orca 自带 Python 3.12.13 与 Python 3.13.1 下各通过 **301 项**测试，页面通过 **92 项**交互测试。测试替身和离线截图不等于实机验收；已在未启用长路径感知的隔离宿主中复现并修复缓存错误。Windows 10 整机、连续打印、AMS 耗尽续料、零件跳过和机械换盘仍需看守验证。详见[兼容性检查](兼容性检查.txt)及[公开测试清单](公开测试清单.txt)。
+0.7.8 已在 Orca 自带 Python 3.12.13 与 Python 3.13.1 下各通过 **301 项**测试，页面通过 **94 项**交互测试。测试替身和离线截图不等于实机验收；已在未启用长路径感知的隔离宿主中复现并修复缓存错误。Windows 10 整机、连续打印、AMS 耗尽续料、零件跳过和机械换盘仍需看守验证。详见[兼容性检查](兼容性检查.txt)及[公开测试清单](公开测试清单.txt)。
 
 ### 开发、反馈与授权
 
@@ -271,7 +271,7 @@ The computer and Orca must remain running. This is not a cloud-hosted scheduler 
 
 ### Download and installation
 
-Use the **[Releases page](https://github.com/ChenLei0504/orca-plate-queue/releases)**. Source version 0.7.7 does not imply that a corresponding public Release has already been published.
+Use the **[Releases page](https://github.com/ChenLei0504/orca-plate-queue/releases)**. Source version 0.7.8 does not imply that a corresponding public Release has already been published.
 
 | Artifact | Purpose |
 | --- | --- |
@@ -338,7 +338,7 @@ Other printers keep their independent queues. Restart, disconnection, unknown ta
 
 ### Updates and troubleshooting
 
-After installing 0.7.7, fully exit and restart Orca. The page should show **0.7.7 / 20261102.4**. The information panel checks the page build, running service, loaded state-history capability and AMS mapping separately.
+After installing 0.7.8, fully exit and restart Orca. The page should show **0.7.8 / 20261102.5**. The information panel checks the page build, running service, loaded state-history capability and AMS mapping separately.
 
 | Symptom | What to check |
 | --- | --- |
@@ -348,8 +348,8 @@ After installing 0.7.7, fully exit and restart Orca. The page should show **0.7.
 | Manual feeding requested despite AMS selection | Recheck the job's source, slot and complete AMS-mapping capability; pause and investigate unexpected behavior. |
 | Preflight blocks the start | Check state freshness, HMS / print errors, nozzle, mappings and plate-handling settings. |
 | A finished print waits for verification | Check the actual task in Handy/on the printer, then use recovery controls. Do not resend the original task. |
-| Initialization fails after allowing file access | Update to 0.7.7. If Orca requests access, allow it and click Retry initialization. Queue data does not need to be deleted. |
-| Errno 2 for a long `.part` path while adding a swap file | Update to 0.7.7 / 20261102.4. It fixes cache creation, validation and database access in hosts without long-path awareness. |
+| Initialization fails after allowing file access | Update to 0.7.8. If Orca requests access, allow it and click Retry initialization. Queue data does not need to be deleted. |
+| Errno 2 for a long `.part` path while adding a swap file | Update to 0.7.8 / 20261102.5. It fixes cache creation, validation and database access in hosts without long-path awareness. |
 | Path-encoding error `-7` | The upstream SDK cannot represent the cache path in the system code page; check directory characters and locale settings. |
 | A queue appears missing after changing installation type | Local and cloud-installed plugins may have separate private storage. They are not merged automatically; avoid activating both copies. |
 
@@ -357,7 +357,7 @@ After installing 0.7.7, fully exit and restart Orca. The page should show **0.7.
 
 Queue state, cached copies and reports stay in Orca-provided private plugin storage. Original selected 3MF files are read only. The queue wheel contains readable runtime sources and no DLLs or installer; it reuses the existing native bridge without creating another account session or reading account files. Native-code capability remains real and may appear in marketplace auditing.
 
-Version 0.7.7 passed **301 tests each** under Orca's Python 3.12.13 and Python 3.13.1, plus **92 UI workflow tests**. These are software and simulated-transport checks, not full physical acceptance. The long-path failure was reproduced and fixed in an isolated embedded host without long-path awareness. Full Windows 10 installations, continuous printing, AMS depletion/refill, object skipping and mechanical swaps still require supervised real-machine verification. See the [compatibility report](兼容性检查.txt) and [acceptance checklist](公开测试清单.txt).
+Version 0.7.8 passed **301 tests each** under Orca's Python 3.12.13 and Python 3.13.1, plus **94 UI workflow tests**. These are software and simulated-transport checks, not full physical acceptance. The long-path failure was reproduced and fixed in an isolated embedded host without long-path awareness. Full Windows 10 installations, continuous printing, AMS depletion/refill, object skipping and mechanical swaps still require supervised real-machine verification. See the [compatibility report](兼容性检查.txt) and [acceptance checklist](公开测试清单.txt).
 
 Windows long paths are handled at file-I/O boundaries by `local_paths.py`, keeping saved identities and directories unchanged. The page is split by responsibility: `page_messages.js` holds messages and parameterized errors; `page_i18n.js` handles translation, formatting and accessible labels; `page_preferences.py` persists plugin-wide language; `plugin_page.js` handles view interactions. Queue execution remains in `queue_engine.py` / `task_monitor.py` with stable protocol values.
 
